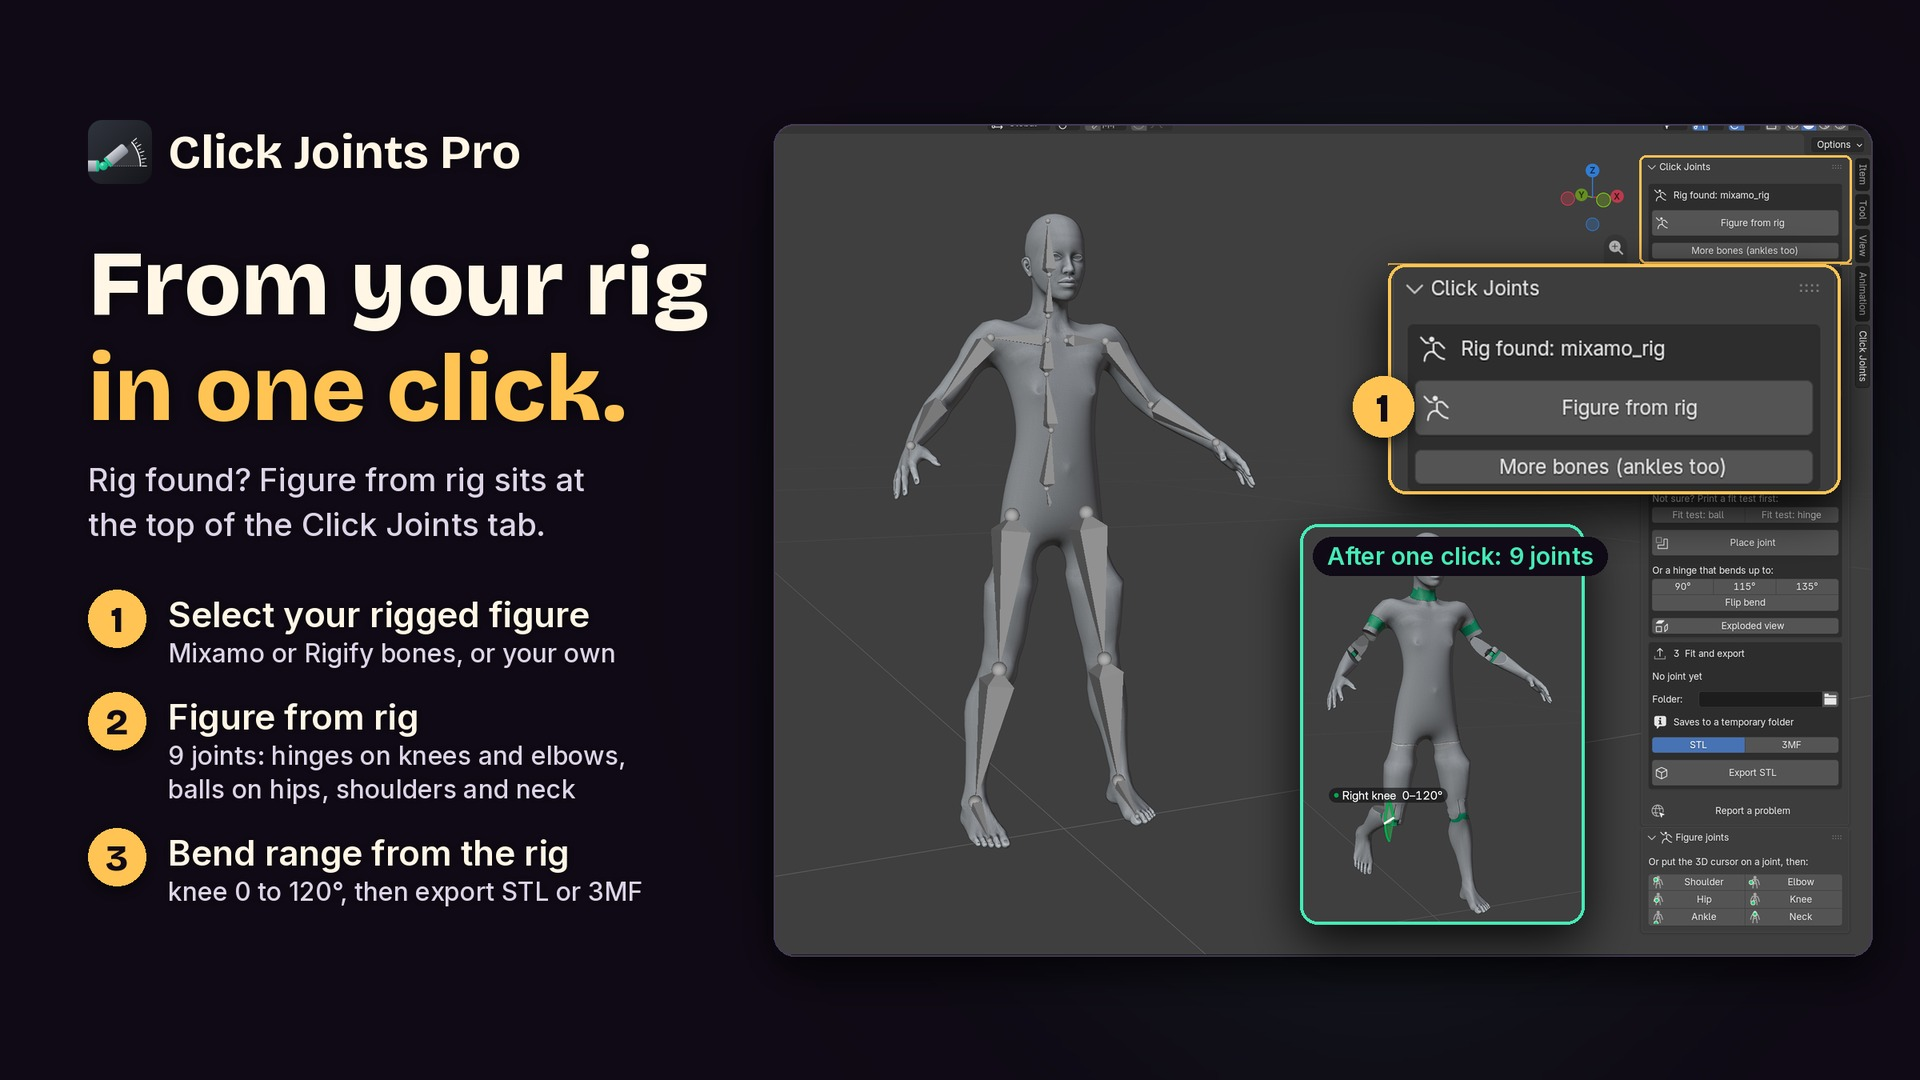
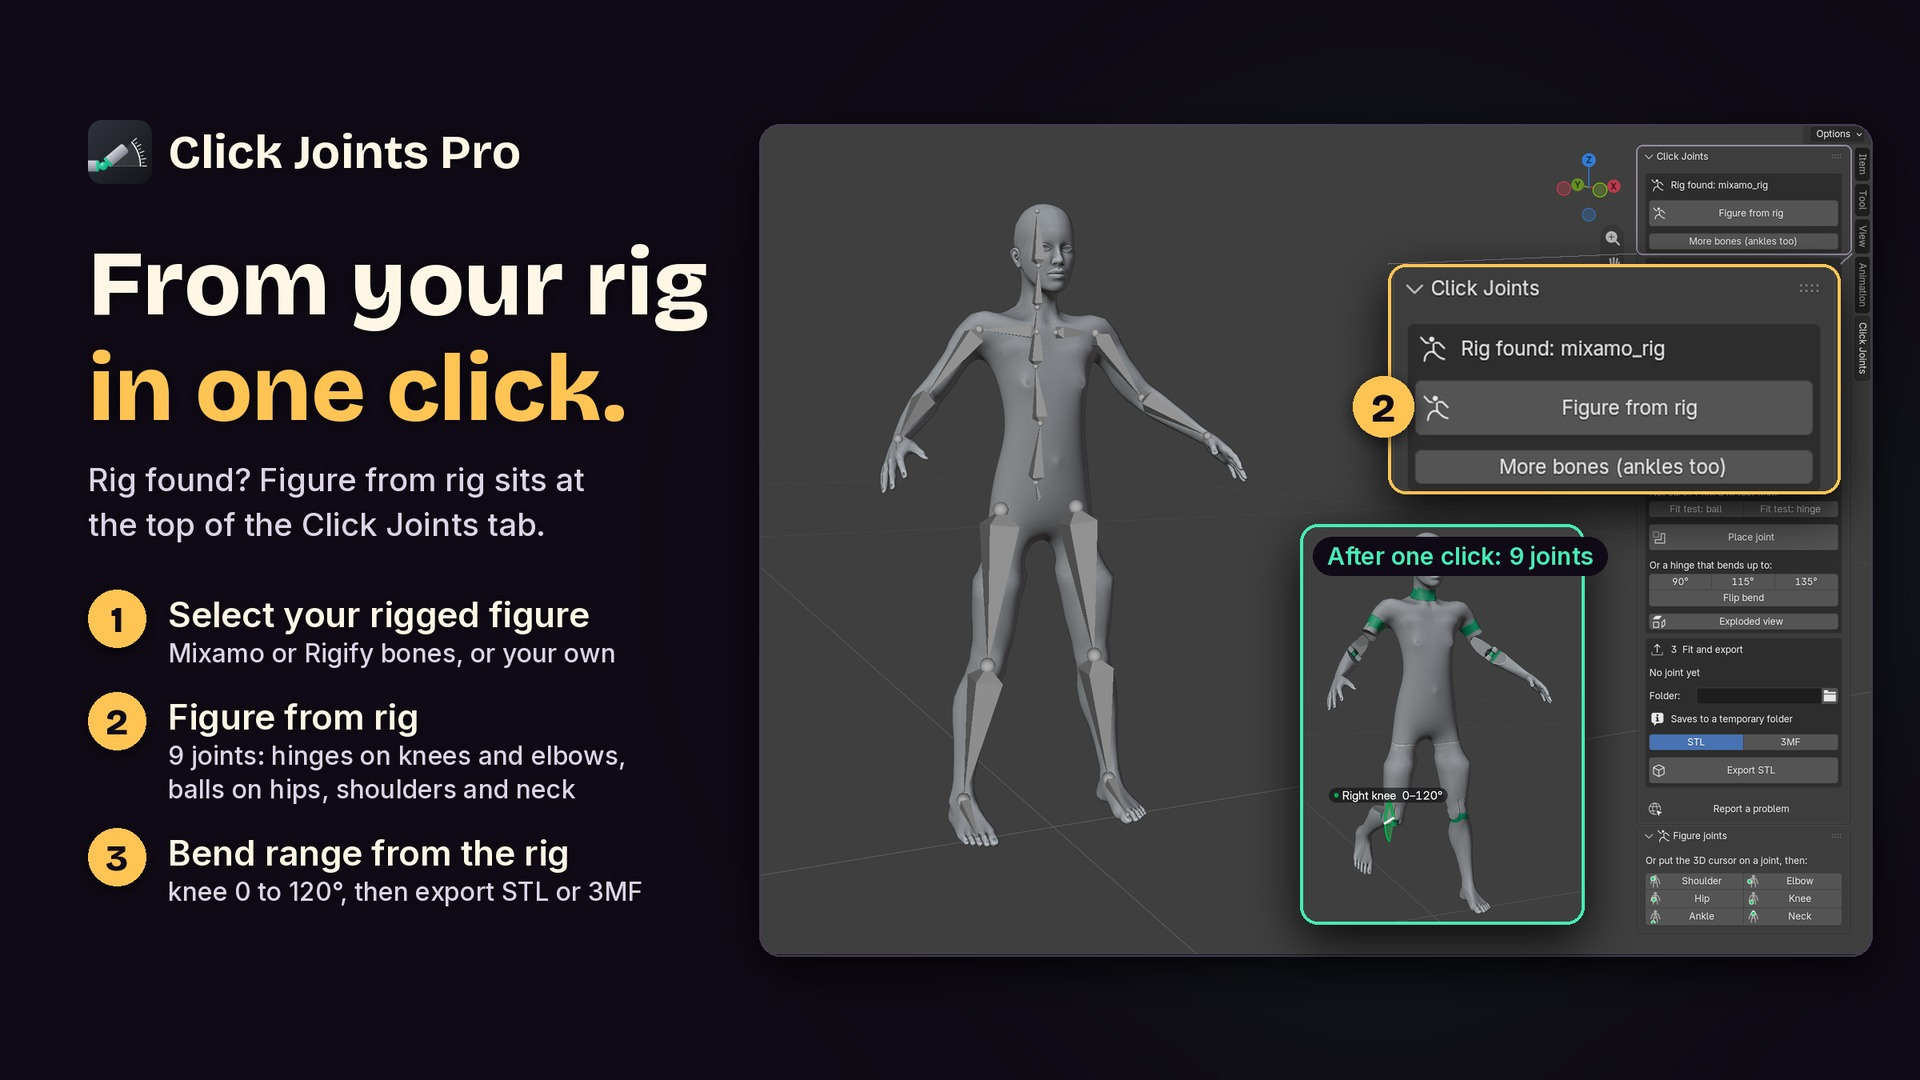
Beeldmaker #259: paneel-rig r2 (Daan #260: bol 2, grijze lijn om klein paneel, bovenrand bijgesneden) en blindtestset r2
Claude-Session: https://claude.ai/code/session_01RMWUyijuicebG3rs9GT85b

diff --git a/ontwerp/pro-galerij/bron/tekst_paneel_rig.py b/ontwerp/pro-galerij/bron/tekst_paneel_rig.py
@@ -85,7 +85,7 @@ def main():
     img.alpha_composite(gloed.filter(ImageFilter.GaussianBlur(220)))
 
     # rechts: de echte schermafbeelding (figuur met rig en de zijbalk)
-    sx0, sy0, sx1, sy1 = int(os.environ.get("PR_SX0", "860")), 60, SW, SH - 30
+    sx0, sy0, sx1, sy1 = int(os.environ.get("PR_SX0", "860")), int(os.environ.get("PR_SY0", "60")), SW, SH - 30
     uit = voor.crop((sx0, sy0, sx1, sy1))
     sh = 1040
     s = sh / uit.size[1]
@@ -104,14 +104,16 @@ def main():
     kx0, ky0 = bx + (k[0] - sx0) * s, by + (k[1] - sy0) * s
     kx1, ky1 = bx + (k[2] - sx0) * s, by + (k[3] - sy0) * s
     d = ImageDraw.Draw(img)
+    # Daan #260 M2: alleen de vergroting is geel; het kleine echte paneel krijgt een dunne grijze lijn
+    GRIJS = (150, 140, 160)
     for a, b in (((kx0, ky1), (px, py)), ((kx1, ky1), (px + pw, py))):
-        d.line([a, b], fill=GOUD + (150,), width=3)
-    d.rounded_rectangle((kx0, ky0, kx1, ky1), radius=8, outline=GOUD + (255,), width=3)
+        d.line([a, b], fill=GRIJS + (110,), width=2)
+    d.rounded_rectangle((kx0, ky0, kx1, ky1), radius=8, outline=GRIJS + (200,), width=2)
     schaduw(img, (px, py, px + pw, py + ph), 22, blur=30, kracht=220, dy=22)
     plak_rond(img, pan, (px, py), 22, rand=GOUD, dikte=4)
-    # rij "Figure from rig" in het vergrote paneel: bol 1 ervoor
+    # rij "Figure from rig" in het vergrote paneel: bol 2 ervoor (Daan #260 M1: het is stap 2 links)
     rij = int(os.environ.get("PR_RIJ", "241"))
-    bol(img, (px - 6, py + (rij - k[1]) * v), 38, "1", font("Bricolage.ttf", 50, "ExtraBold"))
+    bol(img, (px - 6, py + (rij - k[1]) * v), 38, "2", font("Bricolage.ttf", 50, "ExtraBold"))
 
     # kaartje: dezelfde figuur na één klik (tweede schermafbeelding)
     nk = [int(v) for v in os.environ.get("PR_NA", "1000,200,1840,1380").split(",")]

diff --git a/ontwerp/pro-galerij/LEESMIJ.md b/ontwerp/pro-galerij/LEESMIJ.md
@@ -75,7 +75,9 @@ cd producten/blender-gewrichten
 PR_AFSTAND=390 PR_MIDX=10 PR_MIDZ=108 CJ_MENS_OBJ=<base.obj> xvfb-run -a -s "-screen 0 2880x1620x24" \
   <blender 5.3.0> --factory-startup --gpu-backend opengl --python ../../ontwerp/pro-galerij/bron/paneel_rig.py -- <uit> /tmp/click_joints_betaald.zip
 cd ../../ontwerp/pro-galerij
-PR_VERGROOT=1.45 PR_PY=330 PR_KH=500 PR_KX=420 python3 bron/tekst_paneel_rig.py <uit>/rig-voor.png <uit>/rig-na.png <uit>/paneel-rig.json beelden <fonts> ../click-joints/bron/icoon.svg
+PR_SY0=80 PR_VERGROOT=1.45 PR_PY=330 PR_KH=500 PR_KX=420 python3 bron/tekst_paneel_rig.py <uit>/rig-voor.png <uit>/rig-na.png <uit>/paneel-rig.json beelden <fonts> ../click-joints/bron/icoon.svg
 ```
 Fonts: Bricolage Grotesque en Inter (OFL), variabele bestanden uit github.com/google/fonts.
 Blinde test: set `organisatie/blindtest/sets/click-joints-pro-galerij-paneel-rig.json`, tegen de paneelbeelden van Cleave (robot), CatPin (figuur, galerijbeeld 8) en Split 3D Print.
+
+**Ronde 2 (27 nov ±11:00, Daan #260):** bol op Figure from rig is nu "2" (stap 2 links), het kleine echte paneel heeft een dunne grijze lijn in plaats van geel (alleen de vergroting is geel), bovenrand 20 px hoger bijgesneden (PR_SY0=80). Schermafbeeldingen opnieuw gemaakt met dezelfde opdracht; paneel-rig.json is gelijk aan ronde 1 (GEZIEN). Set `click-joints-pro-galerij-paneel-rig-r2.json`.
